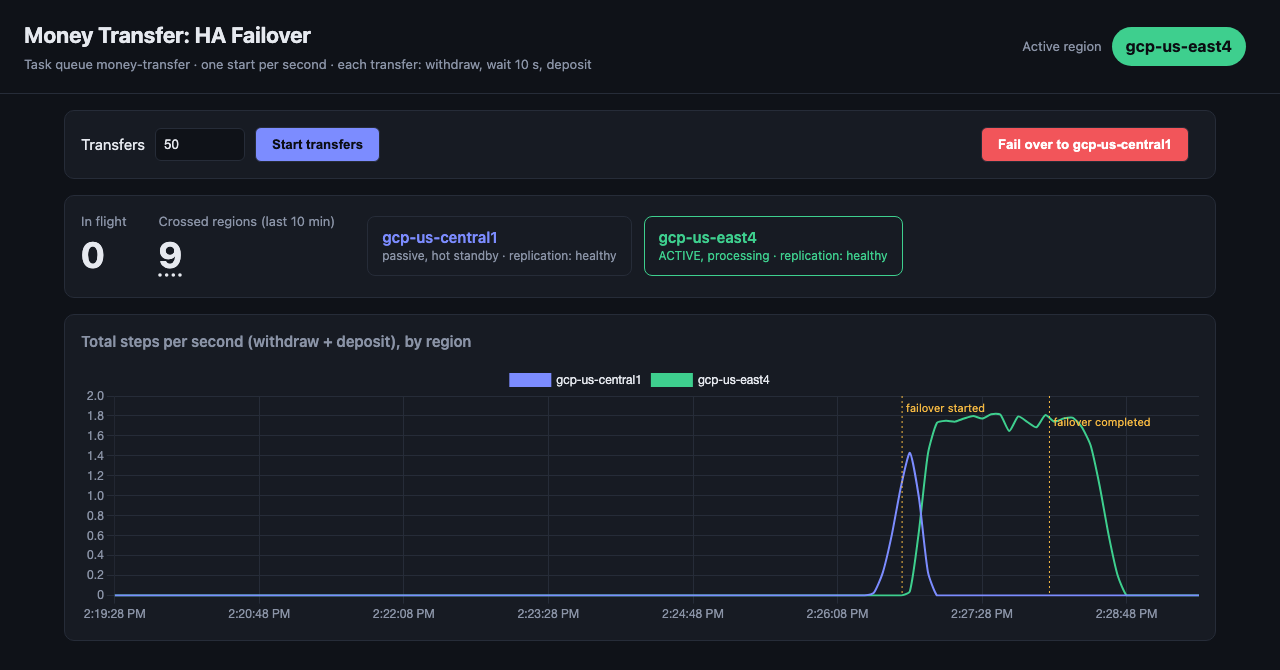
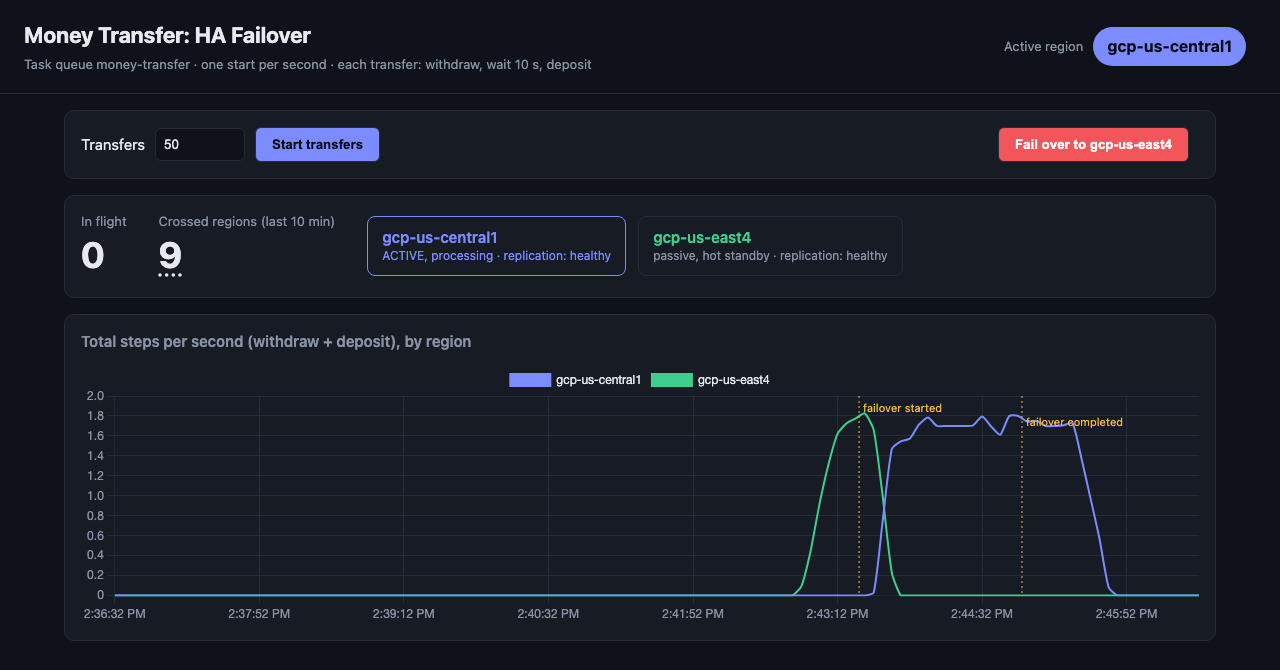
README: retake the screenshot with the failover triggered once traffic is steady

diff --git a/README.md b/README.md
@@ -8,9 +8,9 @@ Money transfers that keep running while a **Temporal Cloud** Namespace fails ove
 - **Metrics:** workers expose Prometheus metrics, Google Managed Prometheus collects them, and the dashboard charts them.
 - **Infra:** Terraform for the Temporal Cloud HA Namespace, service accounts and API keys, GKE, Artifact Registry and GMP.
 
-![The dashboard during a failover from gcp-us-central1 to gcp-us-east4](docs/images/dashboard-failover.png)
+![The dashboard during a failover from gcp-us-east4 to gcp-us-central1](docs/images/dashboard-failover.png)
 
-*The dashboard during a failover from us-central1 to us-east4, with 100 transfers started one per second. The amber lines mark when Temporal Cloud started and completed the failover. Work stops in central (blue) and continues in east (green), which is still processing at full rate when the failover completes. Nine transfers withdrew in one region and deposited in the other.*
+*The dashboard during a failover from us-east4 to us-central1. 130 transfers were started one per second, and the failover was triggered 30s in, once east was at full rate. The amber lines mark when Temporal Cloud started and completed the failover. Work stops in east (green) and continues in central (blue), which is still processing at full rate when the failover completes. Nine transfers withdrew in one region and deposited in the other.*
 
 ## Architecture
 
